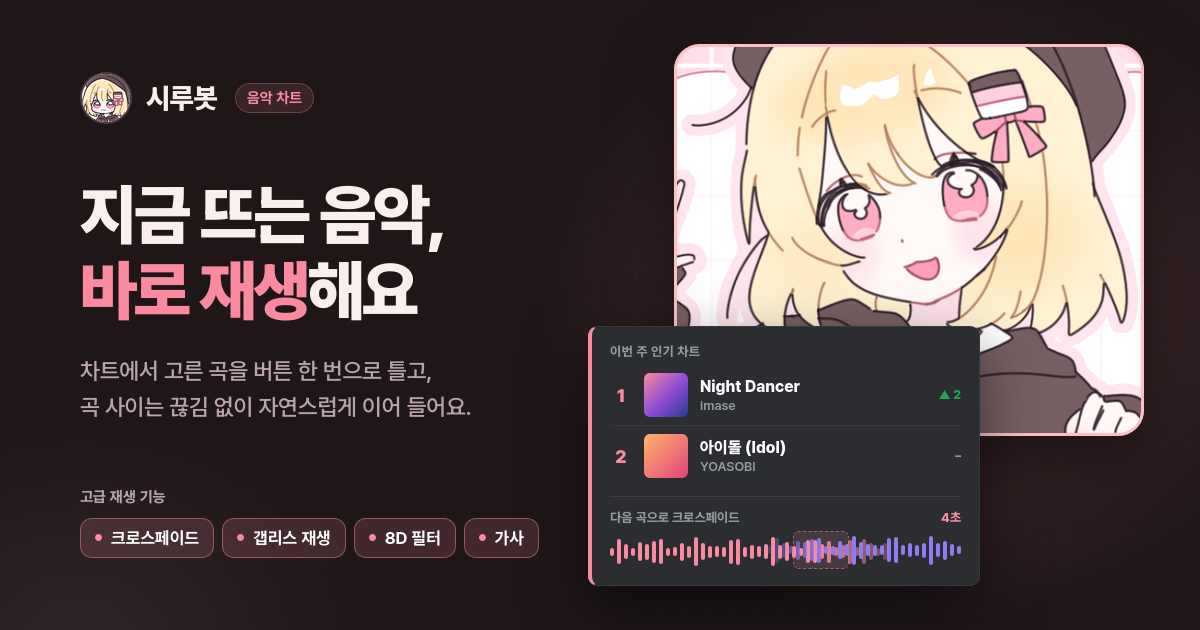
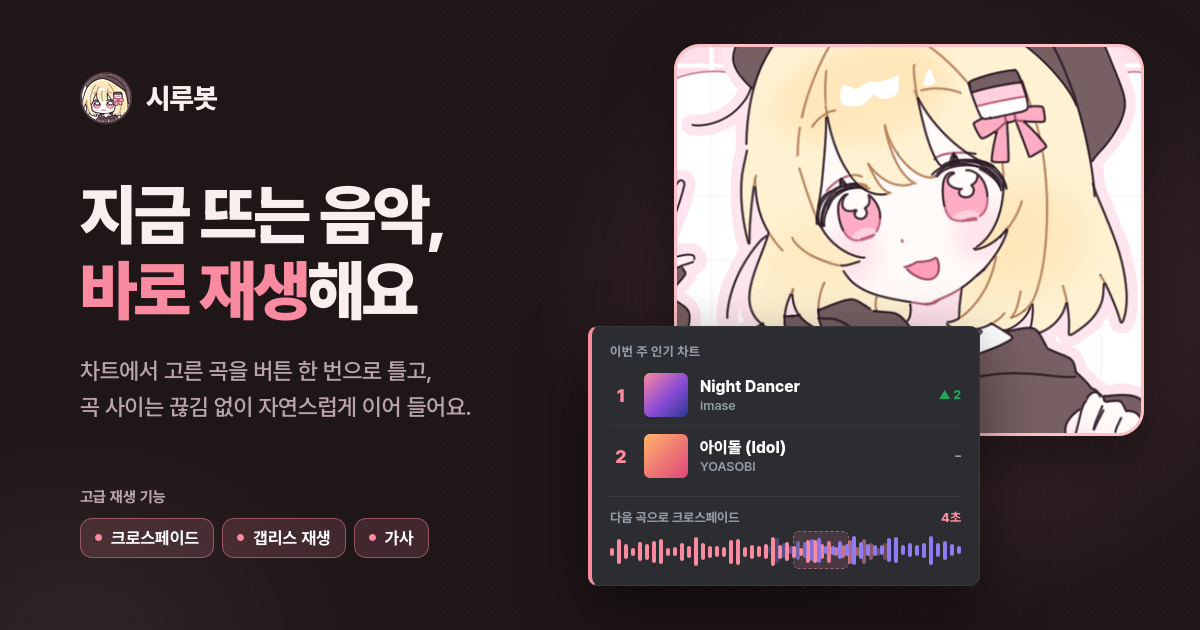
style: OG·임베드에서 필터 언급과 브랜드 옆 태그를 빼요

Changed region(s): [[0.3083, 0.8143, 0.4625, 0.9048], [0.185, 0.1206, 0.2775, 0.181]]

diff --git a/apps/dashboard/src/app/track/layout.tsx b/apps/dashboard/src/app/track/layout.tsx
@@ -7,7 +7,7 @@ import { OG_IMAGES, socialMetadata } from "@/lib/site-metadata";
 export const metadata: Metadata = {
   title: "음악 차트",
   description: "Discord에서 인기 있는 음악 차트를 확인하고 바로 재생해요.",
-  ...socialMetadata({ title: "지금 뜨는 음악, 바로 재생해요", description: "차트에서 고른 곡을 바로 틀고, 크로스페이드·갭리스 재생과 필터 프리셋으로 더 매끄럽게 들어요.", path: "/track", image: OG_IMAGES.track }),
+  ...socialMetadata({ title: "지금 뜨는 음악, 바로 재생해요", description: "차트에서 고른 곡을 바로 틀고, 크로스페이드·갭리스 재생으로 곡 사이를 매끄럽게 이어 들어요.", path: "/track", image: OG_IMAGES.track }),
 };
 
 export default function TrackLayout({ children }: { children: ReactNode }) {

diff --git a/apps/dashboard/src/lib/discord-embed.ts b/apps/dashboard/src/lib/discord-embed.ts
@@ -135,7 +135,6 @@ export function getDiscordEmbedInput(name: string, base: string): DiscordEmbedIn
 				imageAlt: OG_IMAGES.track.alt,
 				highlights: [
 					"🎚 **크로스페이드·갭리스** 곡과 곡 사이를 매끄럽게",
-					"🎛 **필터 프리셋** 베이스부스트·나이트코어·8D·노래방",
 					"📝 **가사** 듣고 있는 곡 가사 바로 보기"
 				],
 				buttons: [{ ...chart, label: "차트 보기" }, invite, dashboard]
